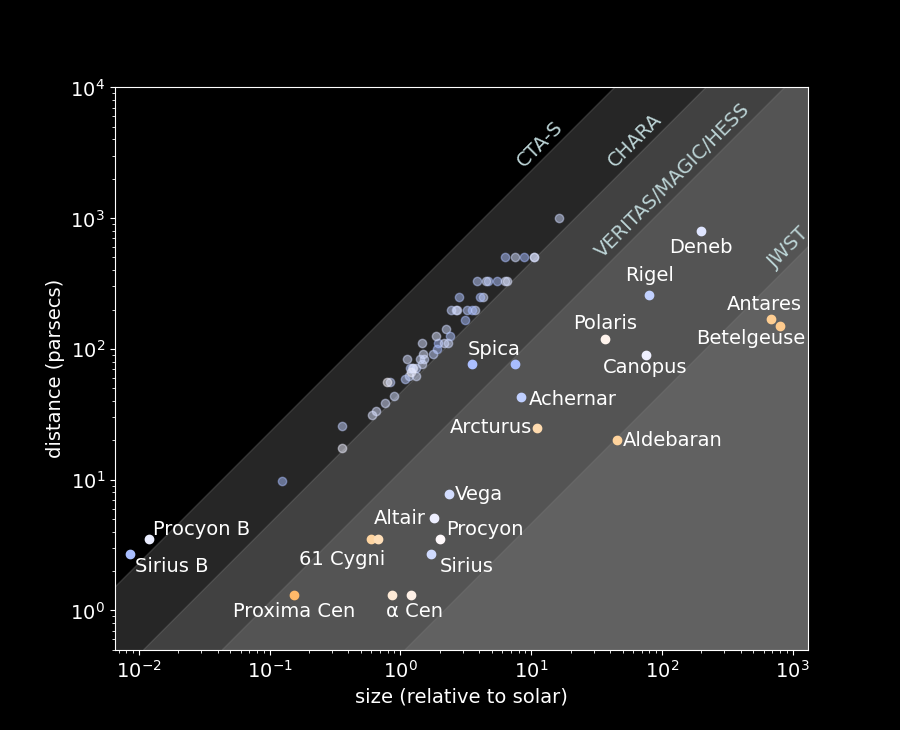
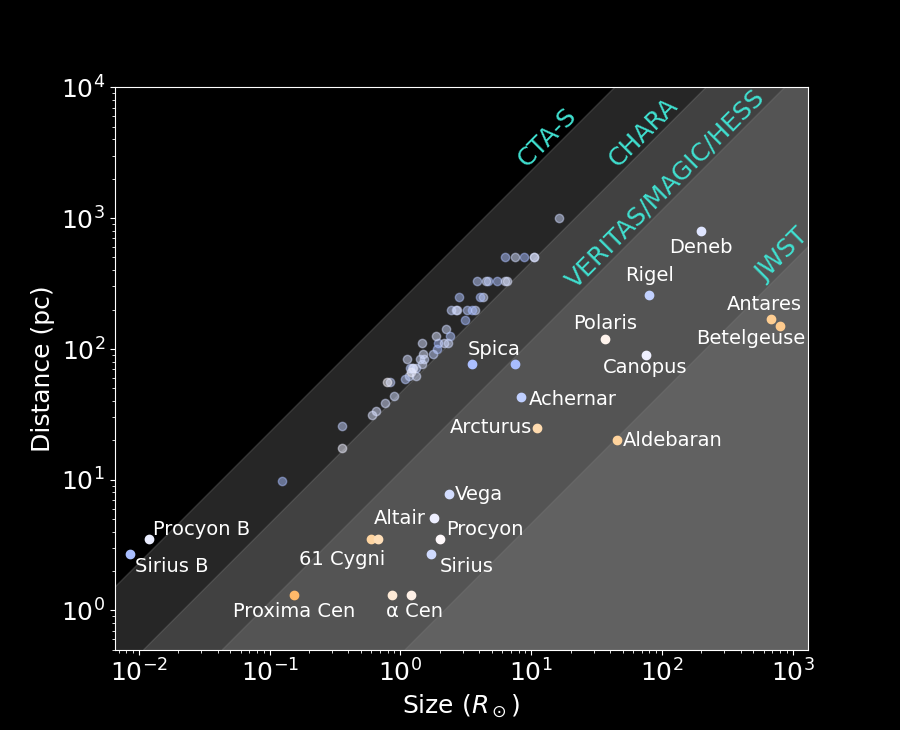
edits

diff --git a/sizedist/starsizes.py b/sizedist/starsizes.py
@@ -4,7 +4,7 @@ import csv
 
 from utils import reel, colorof
 
-pl.rcParams.update({'font.size': 14})
+pl.rcParams.update({'font.size': 18})
 pl.style.use('dark_background')
 
 def setup(a,b,c,d,fname='limits.txt'):
@@ -18,8 +18,8 @@ def setup(a,b,c,d,fname='limits.txt'):
     pl.ylim(ymin,ymax)
     pl.xlim(xmin,xmax)
     pl.gca().set_aspect('equal')
-    pl.ylabel('distance (parsecs)')
-    pl.xlabel('size (relative to solar)')
+    pl.ylabel('Distance (pc)')
+    pl.xlabel('Size ($R_\\odot$)')
     bbox = ax.get_position()
 
 def nopic(s,x,y):
@@ -39,14 +39,15 @@ setup(xmin/dsol,xmax/dsol,ymin/pc,ymax/pc)
 y = np.array((ymin,ymax*1000)) / pc
 ylo = 1e-6*y
 tcol = "#bcd4d6"
+tcol = 'turquoise'
 
 x = y * pc/dsol * 1e-7
 pl.fill_between(x, y1=ylo, y2=y, color="gray", alpha=0.3)
-pl.text(x[-1]/36000,y[-1]/24000, "JWST", rotation=45, color=tcol)
+pl.text(x[-1]/45000,y[-1]/30000, "JWST", rotation=45, color=tcol)
 
 x = y * pc/dsol * 4e-9
 pl.fill_between(x, y1=ylo, y2=y, color="gray", alpha=0.3)
-pl.text(x[-1]/30000,y[-1]/20000, "VERITAS/MAGIC/HESS", rotation=45, color=tcol)
+pl.text(x[-1]/51000,y[-1]/34000, "VERITAS/MAGIC/HESS", rotation=45, color=tcol)
 
 x = y * pc/dsol * 1e-9
 pl.fill_between(x, y1=ylo, y2=y, color="gray", alpha=0.3)
@@ -62,6 +63,8 @@ def star(s):
     x,y = 2*R,dis
     pl.plot(x/dsol,y/pc,'o',color=colorof(T))
     nopic(name,x*dx/dsol,y*dy/pc)
+    
+pl.rcParams.update({'font.size': 14})
 
 fil = open('starsizes.txt')
 while True:
